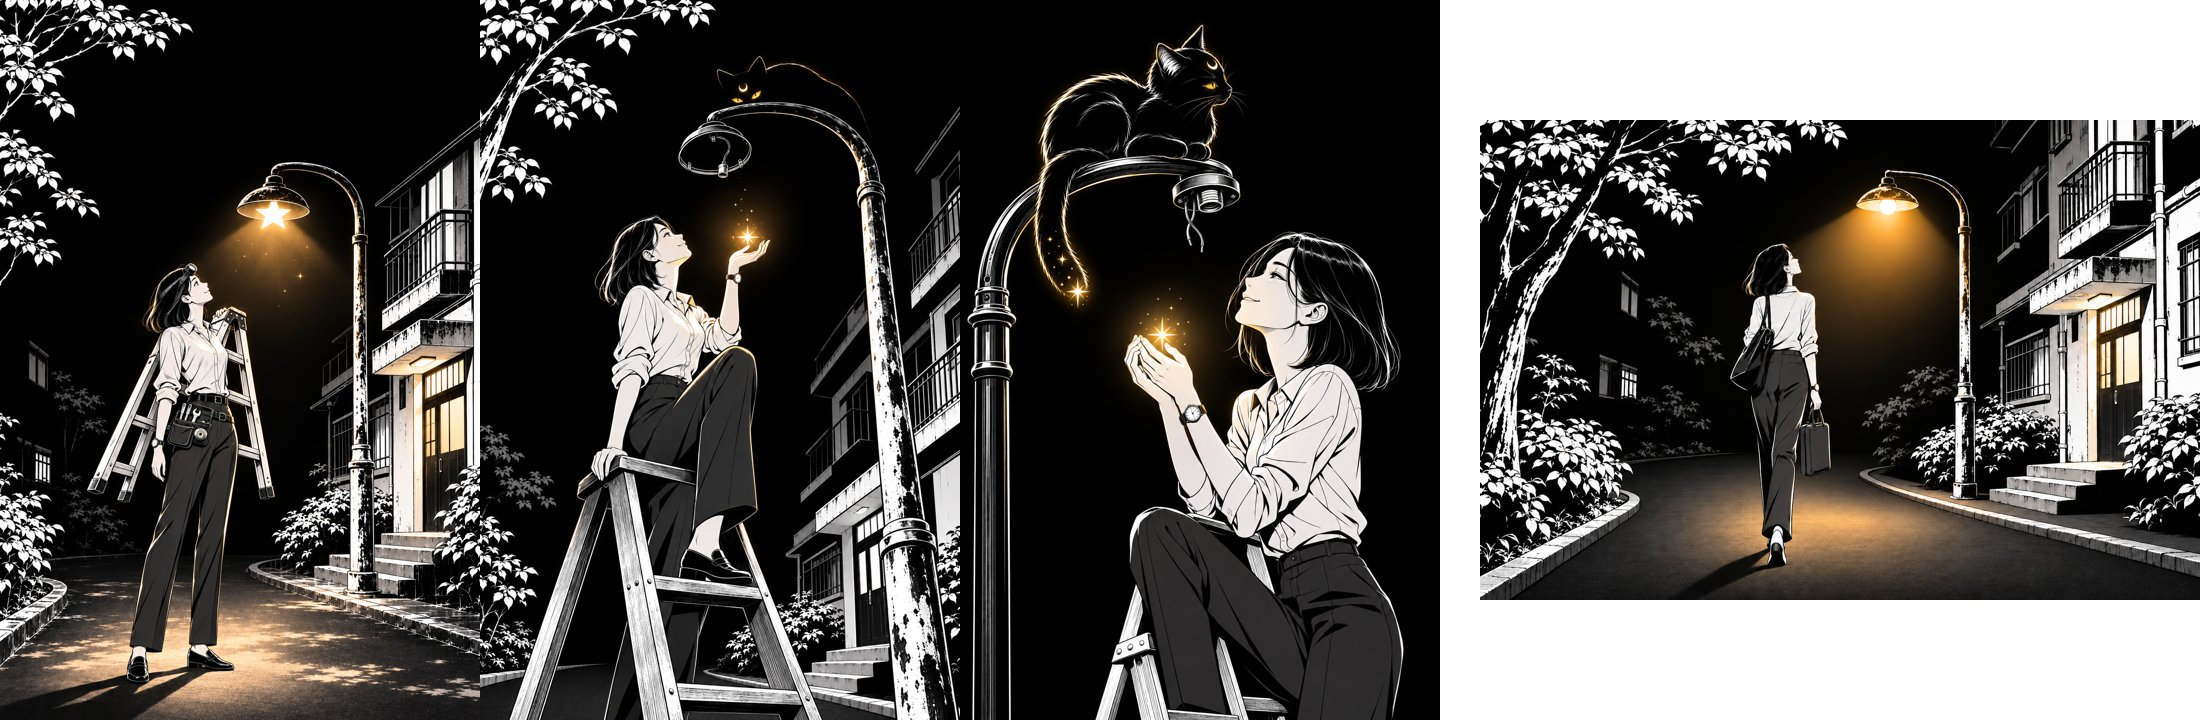
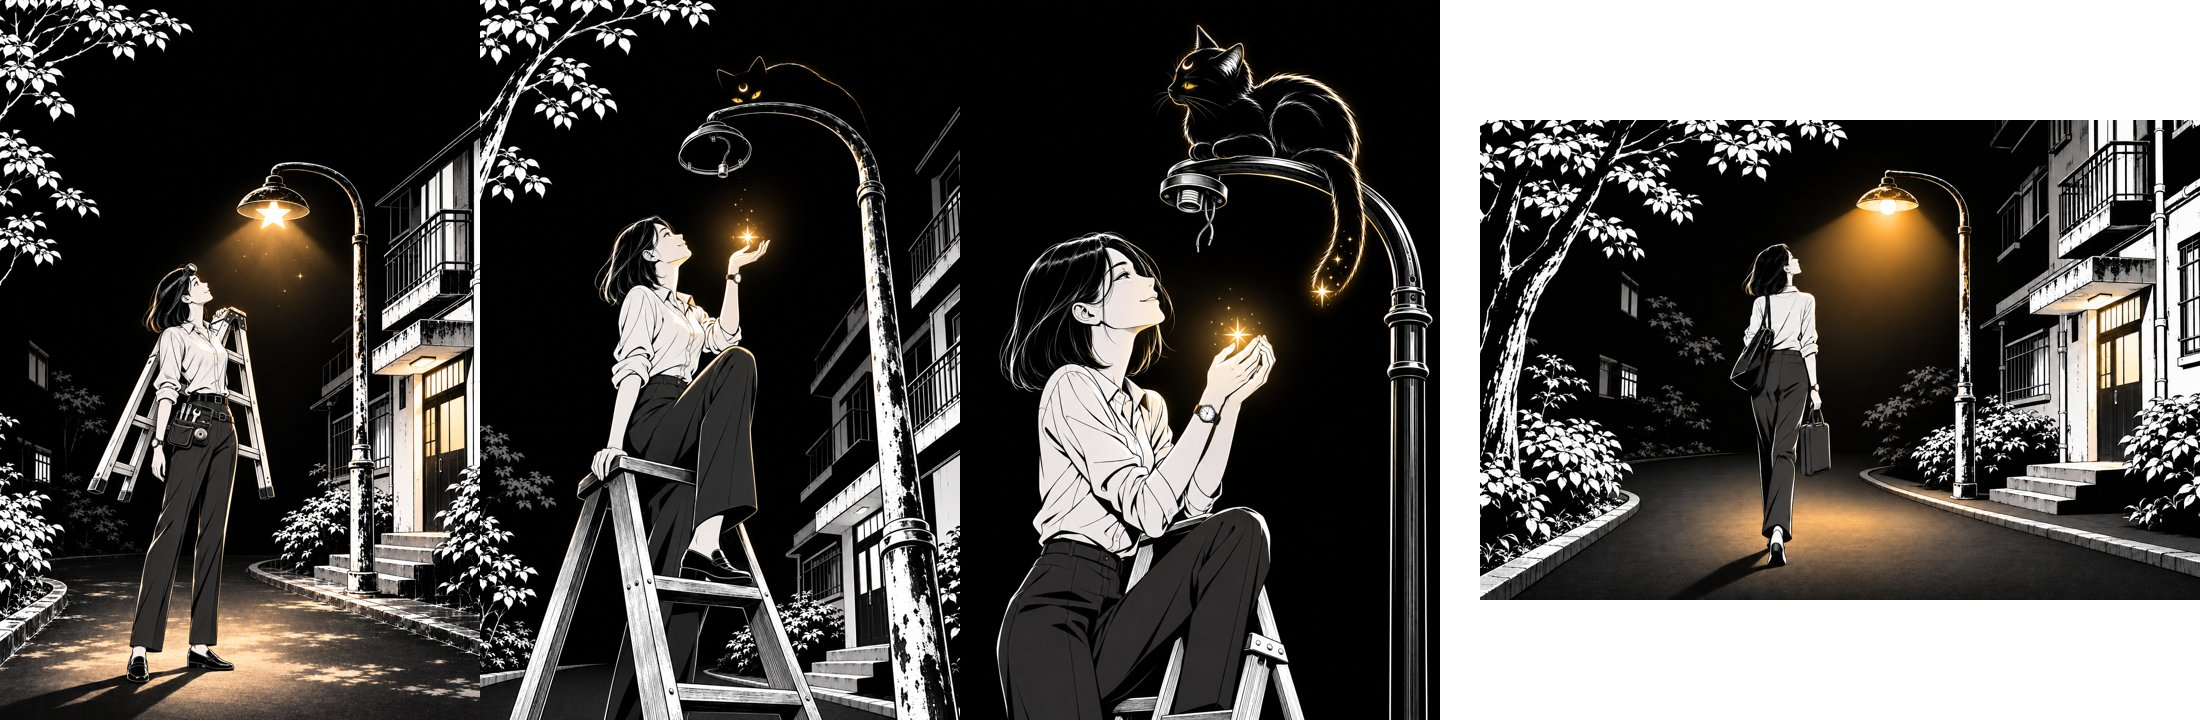
[视频] ep02 样张：P7 左右翻转对上 P6 的路灯方向，P6 眼睛亮后慢推；转用户

Changed region(s): [[0.4327, 0.0306, 0.6491, 1.0]]

diff --git a/ep02/motion.py b/ep02/motion.py
@@ -3,6 +3,7 @@
   glow 的 ("on", 起, 用时)：区域里的金光先暗着，到“起”秒用“用时”慢慢亮起来，亮了以后轻轻呼吸
     （P6：先亮掌心的星，再亮弯臂上那双眼睛）
   ("on", 起, 用时, "lum")：不只金色，区域里所有亮的线（白色的月牙、耳朵轮廓）都先全黑
+  PUSH：某个时刻起很慢地往一个点推近（P6 眼睛亮了以后推向弯臂，眼睛在手机上太小）
 
 第 1 期重做的 ../ep01r/motion.py 按第 1 期的镜头编号写死了冰箱、换姿势、走远，这里不继承它，用到时再借它的函数。
 
@@ -24,8 +25,10 @@ L.ART = os.path.join(HERE, "art")
 L.SPEC.clear()
 L.SPEC.update({
     "6": dict(glow=[((440, 380, 700, 640), ("on", 0.5, 1.8)), ((470, 90, 830, 228), ("on", 3.4, 2.2, "lum"))]),
-    "7": dict(glow=[((330, 600, 560, 820), "pulse")], twinkle=[(120, 420, 360, 720)]),  # 掌心的星呼吸；尾尖闪
+    "7": dict(glow=[((464, 600, 694, 820), "pulse")], twinkle=[(664, 420, 904, 720)]),  # 掌心的星呼吸；尾尖闪（图已左右翻转，灯杆在右）
 })
+
+PUSH = {"6": dict(at=3.4, secs=8.0, zoom=1.08, center=(600, 200))}  # 起、用时、推到多大、朝哪一点
 
 
 class Shot(L.Layered):
@@ -47,6 +50,18 @@ class Shot(L.Layered):
             elif mode == "pulse":
                 a = a + a * 0.10 * math.sin(2 * math.pi * t / 4.2) * m
         return a
+
+    def frame(self, t):
+        im = super().frame(t)
+        p = PUSH.get(self.key)
+        if not p or t <= p["at"]:
+            return im
+        z = 1 + (p["zoom"] - 1) * L.ease((t - p["at"]) / p["secs"])
+        cx, cy = p["center"]
+        w, h = self.W / z, self.H / z
+        x0 = min(max(cx - (cx / self.W) * w, 0), self.W - w)  # 推的时候那一点在画面里的位置不动
+        y0 = min(max(cy - (cy / self.H) * h, 0), self.H - h)
+        return im.crop((x0, y0, x0 + w, y0 + h)).resize((self.W, self.H), Image.LANCZOS)
 
 
 def check():

diff --git a/协作/进度.md b/协作/进度.md
@@ -5,7 +5,7 @@
 | 集 | 标题（v2 大纲） | 状态 | 负责人 | 备注 |
 |---|---|---|---|---|
 | 01 | 我的新室友，是一只上夜班的猫 | 已发 | 视频方 | `ep01r/`，11-05 发视频版 |
-| 02 | 灯罩里没有灯泡，只有一颗星星 | 样张待审 | 视频方 | `ep02/剧本.md`，检查脚本 0 错误 0 警告、台词红队已改；`视频正文.txt` 已写；11-05 19:57 按 `ep02/审校.md` 两处改完，可以出样张；11-05 20:50 样张见 `ep02/审校.md`「样张」；11-05 20:27 写稿方看过：P7 左右翻转后直接转用户 |
+| 02 | 灯罩里没有灯泡，只有一颗星星 | 用户待审 | 用户 | `ep02/剧本.md`，检查脚本 0 错误 0 警告、台词红队已改；`视频正文.txt` 已写；11-05 19:57 按 `ep02/审校.md` 两处改完，可以出样张；11-05 20:50 样张见 `ep02/审校.md`「样张」；11-05 20:27 写稿方看过：P7 左右翻转后直接转用户；21:15 已翻转，样张转用户 |
 | 03 | 凌晨三点，它来借我的光给星星充电 | 剧本待审 | 用户 | `ep03/剧本.md`，检查脚本 0 错误 0 警告、台词红队已改；`视频正文.txt` 已写；11-05 19:57 按 `ep03/审校.md` 两处改完，视频方不用再审；只等用户拍板规则一，拍板后即定稿 |
 | 04 | 我留的灯，它哄了二十分钟都没睡着 | | | |
 | 05 | 晚风破了个洞，它说明天出不了勤 | | | |

diff --git a/ep02/审校.md b/ep02/审校.md
@@ -54,3 +54,9 @@
 结论：P7 左右翻转是唯一要改的。改完不用再给我看，直接转用户。
 
 “参考图会被照搬”这条经验，我补进了 `准则/写稿.md`：路灯的参考图改用 `ep02/art/2.png`。另外补了一条：楼下路灯一律灯杆在右、弯臂往左弯。
+
+【视频方 11-05 21:15】
+- **P7**：已左右翻转，灯杆在右，猫在她右上方，和 P6 接得上；尾尖闪、掌心呼吸的区域跟着翻过来了。
+- **P6**：采纳你的可选建议，眼睛亮起来以后（3.4 秒起），用 8 秒很慢地推到 1.08 倍，推向弯臂。
+- **P7 补半个灯罩**：先不补，等用户看完样张再说。
+- 样张两张图都已更新，进度改成「用户待审」。
